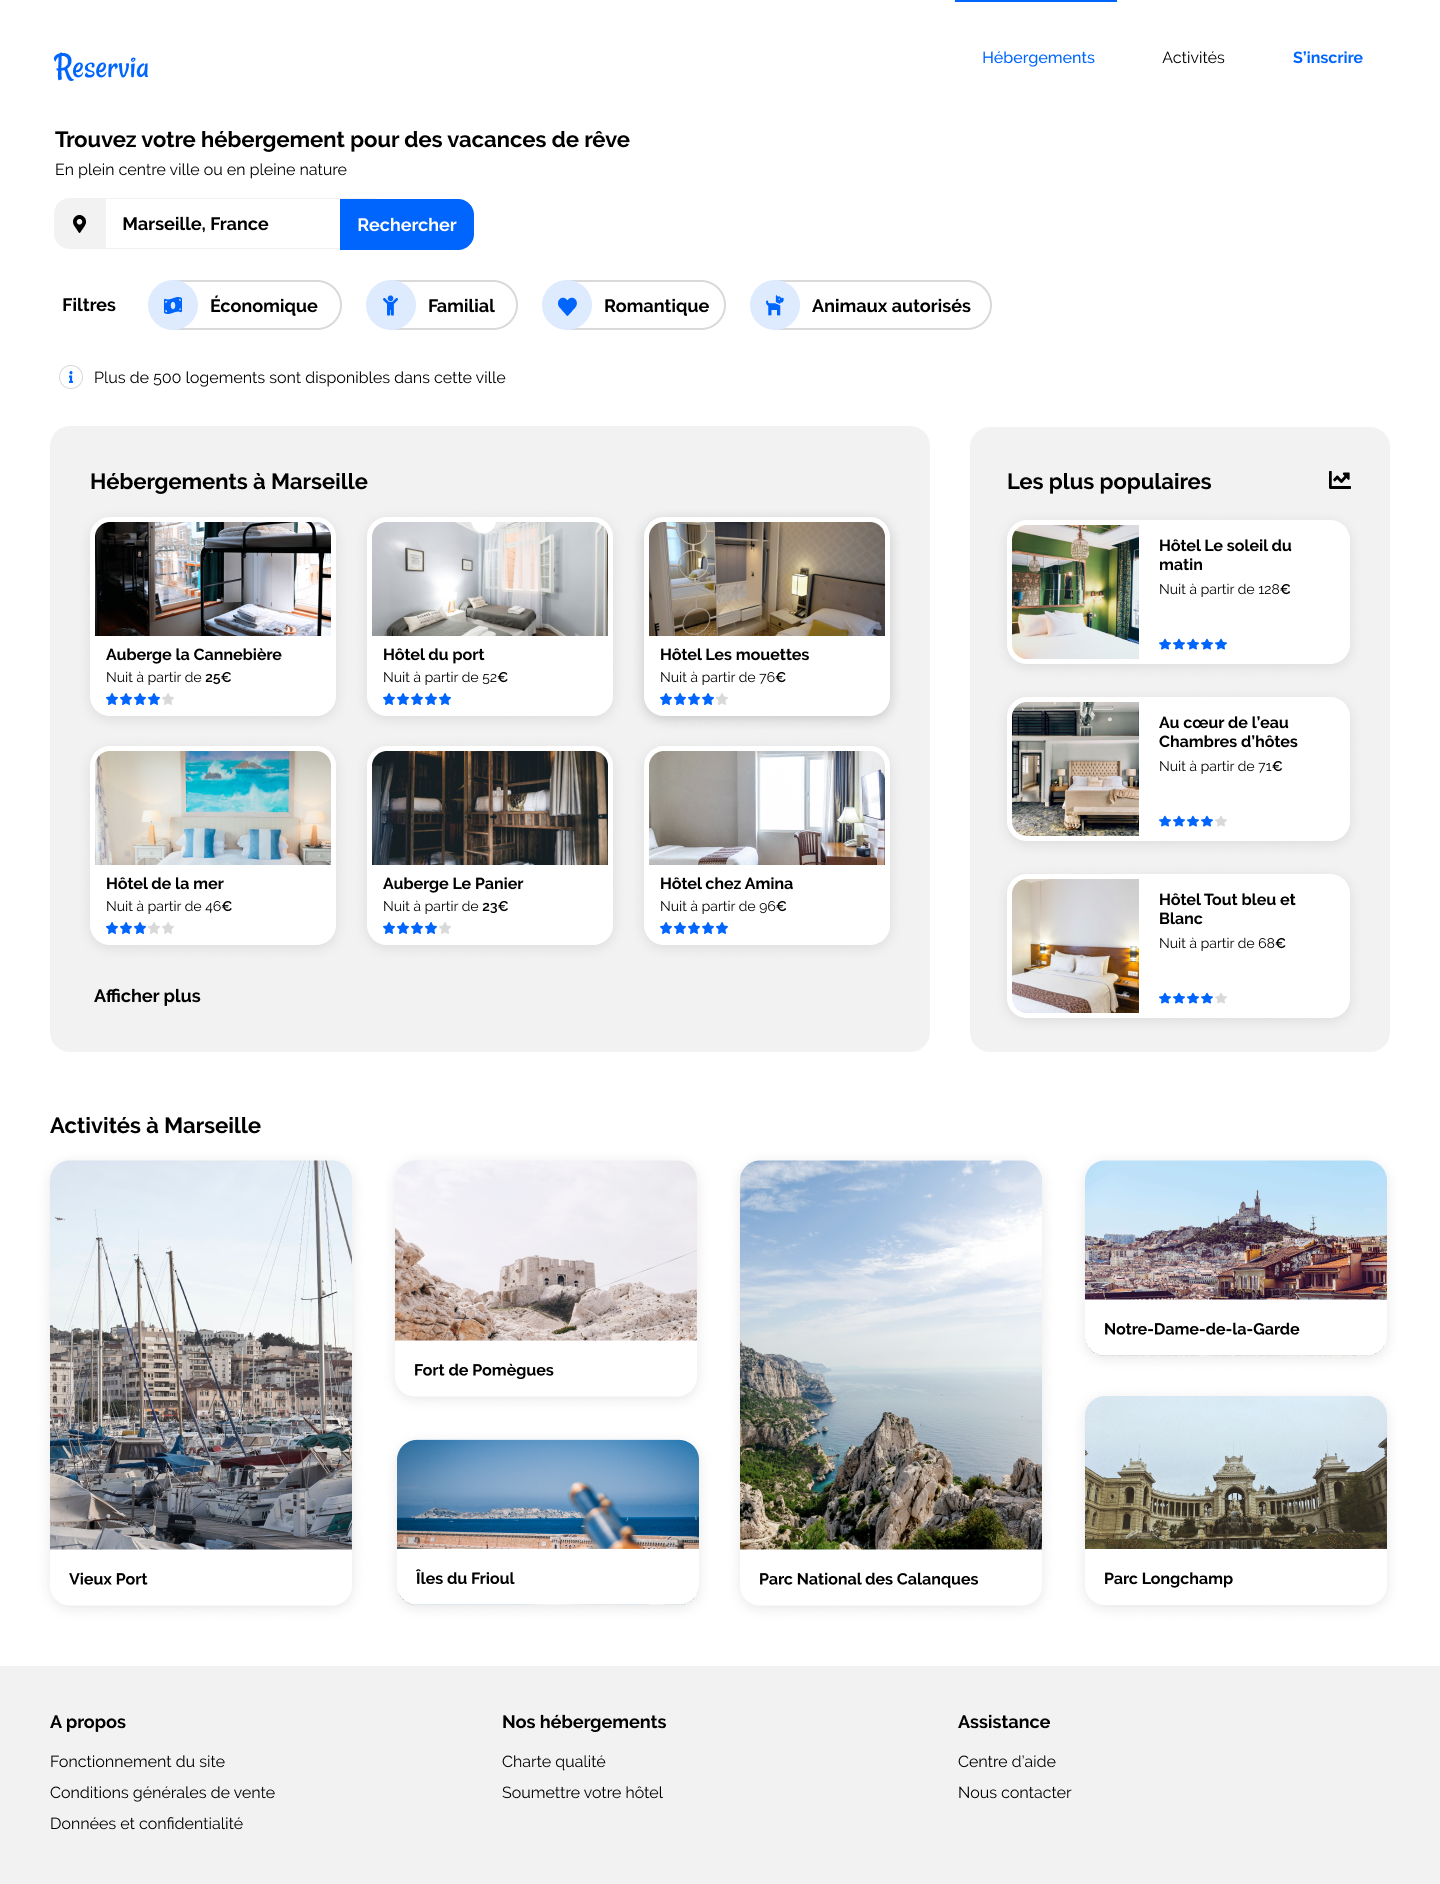
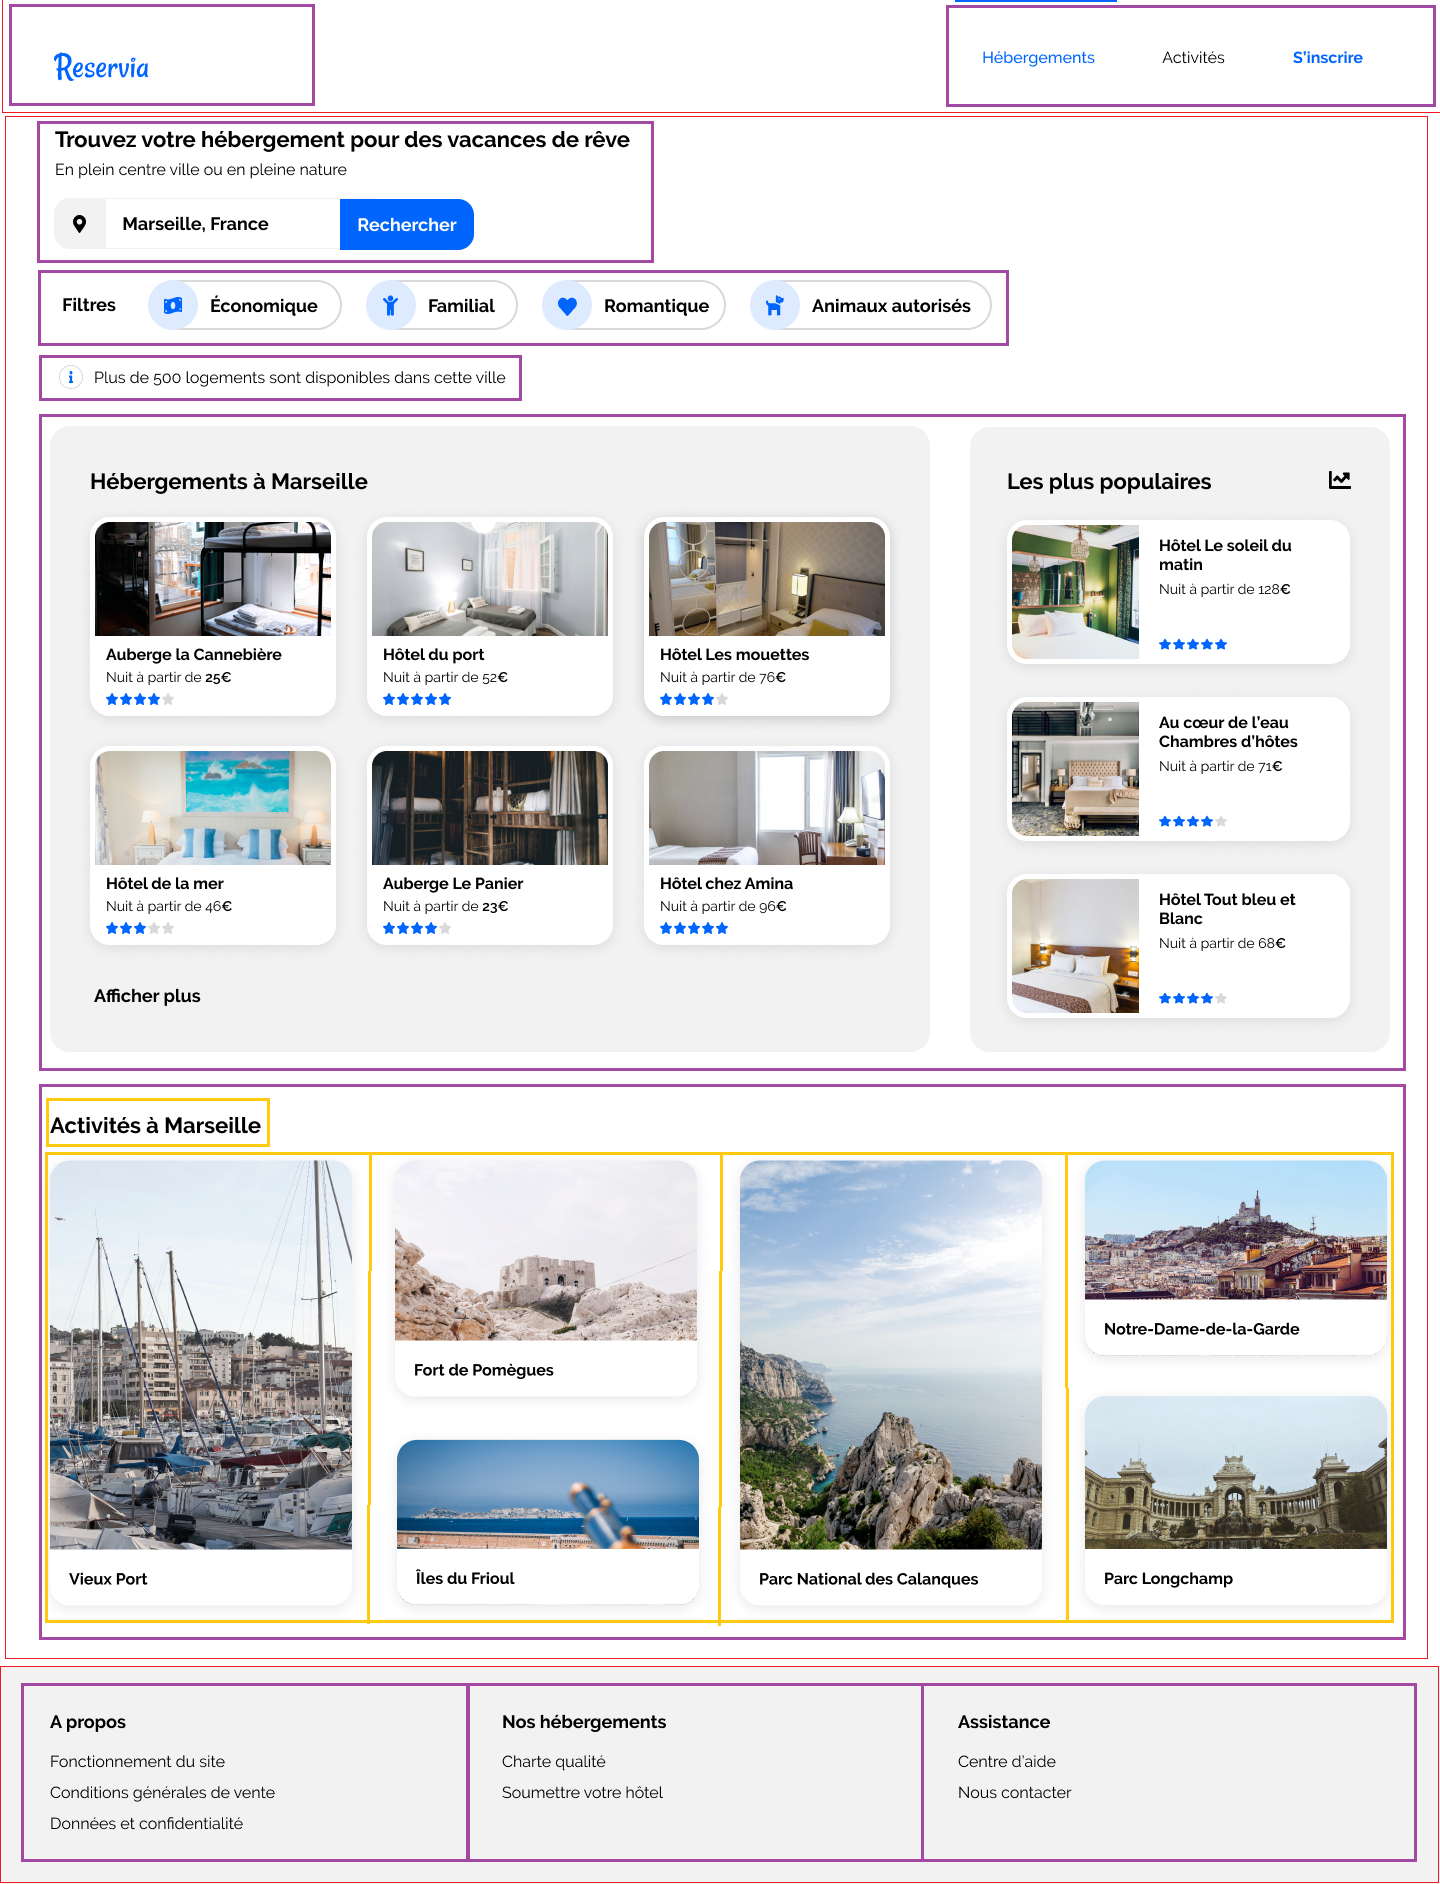
Header FAIT

diff --git a/index.html b/index.html
@@ -5,43 +5,46 @@
 	<title>Reservia</title>
     <link rel="stylesheet" href="css/index.css" />
 	<link rel="preconnect" href="https://fonts.gstatic.com">
+	<link rel="preconnect" href="https://fonts.gstatic.com">
+	<link rel="preconnect" href="https://fonts.gstatic.com">
+	<link href="https://fonts.googleapis.com/css2?family=Raleway:wght@300&display=swap" rel="stylesheet">
 </head>
 <body>
-<div id="Bloc_Page">
+<div class="Bloc_Page">
 	<header>
-		<h1 id="Titre_du_site">
-			<img src="../AnnaelleEmery_2_29032021/images/logo/Reservia@3x.png" class="Logo_Reservia" alt="Logo Reservia" width="210" height="60"/>
-		</h1>
-		<nav id="Menu_du_header">
-			<ul id="ul_menu">
-				<li class="elements_menu">Hébergement</li>
+		<figure class="Titre_du_site">
+			<img src="../AnnaelleEmery_2_29032021/images/logo/Reservia@3x.png" class="Logo_Reservia" alt="Logo Reservia" wclassth="210" height="60"/>
+		</figure>
+		<nav class="Menu_du_header">
+			<ul class="ul_menu">
+				<li class="elements_menu">Hébergements</li>
 				<li class="elements_menu">Activités</li>
-				<li class="elements_menu">S'inscrire</li>
+				<li class="elements_menu_3">S'inscrire</li>
 			</ul>
 		</nav>
 	</header>
 		
-	<div id="Bloc_de_recherche">
+	<div class="Bloc_de_recherche">
 		<h2>Trouvez votre hébergement pour les vacances de rêve</h2>
 		<p>En plein centre ville ou en pleine nature</p>
 
 
 	</div>
 
-	<div id="Filtres">
+	<div class="Filtres">
 		Mettre les Filtres ICI
 	</div>
 	<div>
 		Mettre le petit logo interactif et le "Plus de 500 logements 
 		disponibles dans cette ville" ICI
 	</div>
-	<div id="Les_deux_gros_blocs">
-		<div id="Hebergements">
+	<div class="Les_deux_gros_blocs">
+		<div class="Hebergements">
 			<h2>Hébergements à Marseille</h2>
 
 		</div>
 
-		<div id="Les_plus_populaires">
+		<div class="Les_plus_populaires">
 			<h2>Les plus populaires</h2>
 
 		</div>
@@ -53,25 +56,25 @@
 	</div>
 
 	<footer>
-		<div id="A_propos">
+		<div class="A_propos">
 			<h3>A propos</h3>
 			<ul>
 				<li>Fonctionnement du site</li>
 				<li>Conditions générales de vente</li>
-				<li>Données et confidentialité</li>
+				<li>Données et confclassentialité</li>
 			</ul>
 		</div>
-		<div id="Nos_hébergements">
+		<div class="Nos_hébergements">
 			<h3>Nos hébergements</h3>
 			<ul>
 				<li>Charte qualité</li>
 				<li>Soumettre votre hôtel</li>
 			</ul>
 		</div>
-		<div id="Assistance">
+		<div class="Assistance">
 			<h3>Assistance</h3>
 			<ul>
-				<li>Centre d'aide</li>
+				<li>Centre d'aclasse</li>
 				<li>Nous contacter</li>
 			</ul>
 		</div>

diff --git a/css/index.css b/css/index.css
@@ -2,74 +2,90 @@
 
 
 
-#Bloc_Page{
-    width: 95%;
+.Bloc_Page{
+    width: 100%;
     margin: auto;
     border: 1px solid black;
+    font-family: 'Raleway', sans-serif;
 }
 
 header{
-    border: black 1px solid;
     display: flex;
+    flex-direction: row;
     justify-content: space-between;
-    align-items: flex-end;
 }
 
-    #Titre_du_site{
+    .Titre_du_site{
+        margin: 1em 0 0 0;
+    }
+
+    .Menu_du_header{
         display: flex;
         flex-direction: row;
-        align-items: baseline;
-        border: black 1px solid;
     }
 
-    #Menu_du_header{
-        border: black 1px solid;
-        width: 45%;
-    }
-
-    #ul_menu{
+    .ul_menu{
         list-style-type: none;
+        margin: 0 0 0 0;
+        padding: 0 0 0 0;
+        width: 100%;
+        height: 100%;
         display: flex;
+        flex-direction: row;
+        flex-wrap: wrap;
     }
 
-    .elements_menu{
-        margin-right: 1em;
+    .elements_menu, .elements_menu_3{
         font-size: 1.3em;
-        border: black 1px solid;
+        margin: 0 0 0 0;
+        padding: 1em 2em 1em 2em;
+    }
+
+    .elements_menu_3:hover{
+        color: #0065FC;
+        border-top: 2px #0065FC solid;
+    }
+
+    .elements_menu:hover{
+        color: #0065FC;
+        border-top: 2px #0065FC solid;
+    }
+
+    .elements_menu_3{
+        color: #0065FC;
+        font-weight: 700;
     }
 
 
-
-
-#Bloc_de_recherche{
+.Bloc_de_recherche{
     
 }
 
-#Filtres{
+.Filtres{
     
 }
 
-#Les_deux_gros_blocs{
+.Les_deux_gros_blocs{
     
 }
 
-#Hebergements{
+.Hebergements{
     
 }
 
-#Les_plus_populaires{
+.Les_plus_populaires{
     
 }
 
-#A_propos{
+.A_propos{
     
 }
 
-#Nos_hébergements{
+.Nos_hébergements{
     
 }
 
-#Assistance{
+.Assistance{
     
 }
 
